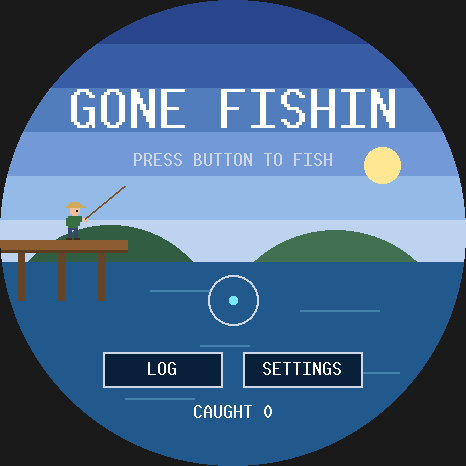
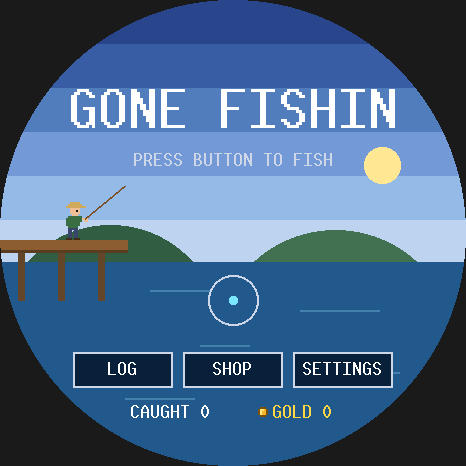
docs: handbook, README and CLAUDE.md cover gold, the hat shop, save v3, MENU and Angler's new 79 KB heap headroom; screenshots regenerated (shop and hatted dock added)

diff --git a/docs/ESP32_PLATFORM.md b/docs/ESP32_PLATFORM.md
@@ -3,7 +3,8 @@
 Everything learned bringing `no_std` Bevy games to this board, written so a
 fresh session can keep going without re-deriving it. There are two games:
 **Orbit** (circular pong, touch) and **Angler** (fishing: tilt-aimed cast,
-hold-to-charge, lean-to-reel, persistent fish log; see section 10.4). Facts are marked
+hold-to-charge, lean-to-reel, persistent fish log, gold and a hat shop; see section 10.4).
+Facts are marked
 **[verified]** (built, tested, read in source, or run in the emulator) or
 **[unverified]** (from vendor sources or inference; not yet seen on hardware).
 
@@ -302,10 +303,11 @@ Measured **[verified]** with `tools/heap32/run.sh`:
 | Game | After build | During play | Peak | Headroom in 284 KB (with the 7 KB band) |
 |---|---|---|---|---|
 | Orbit | 197 KB | 206 KB | 265 KB | **11 KB** |
-| Angler | 185 KB | 189 KB | 189 KB | **87 KB** |
+| Angler | 194 KB | 197 KB | 198 KB | **79 KB** |
 
-Angler is 76 KB leaner at peak because it uses **one phase-machine resource and four systems
-instead of Bevy states**. `StatesPlugin`, the `StateTransition` schedule, and every
+Angler is 67 KB leaner at peak because it uses **one phase-machine resource and four systems
+instead of Bevy states**. The hat shop (one `Inventory` resource, a `Phase::Shop`, no new
+systems) cost it 3 KB. `StatesPlugin`, the `StateTransition` schedule, and every
 `OnEnter`/`OnExit` schedule cost KB each.
 
 Opt-in plugins matter too. Moving buttons and IMU into `ControlsPlugin` saved Orbit 12 KB.
@@ -379,8 +381,9 @@ Other memory facts:
     scripted input. The two `.stack` sizes are printed; keep them within about 1 KB.
   - **Pass criteria:**
     - Orbit: two or more starts, one or more losses, and 0 B in PSRAM.
-    - Angler: two fish landed by a scripted steady-hand player, the fish log written through
-      `esp-storage` into emulated flash at 0x9000 and read back equal, and 0 B in PSRAM.
+    - Angler: two fish landed by a scripted steady-hand player, their gold spent in the hat
+      shop (MENU from aiming, then SHOP and BUY), the log, settings and inventory written
+      through `esp-storage` into emulated flash at 0x9000 and read back equal, and 0 B in PSRAM.
   - **Scripting rule:** emulated frames are much shorter than real ones (about 170 fps of game
     time), so drive scripts by **game time**, never frame counts. That covers charge-until-power,
     waiting out the result guard, and bounding fights by seconds.
@@ -419,8 +422,8 @@ For Angler (`cargo run --release --bin angler`), also check:
    the `PWR key unavailable` log (TCA9554 at 0x20).
 8. **Reel:** leaning forward pushes the green zone up. Swap the sign in `imu_to_screen`'s y/z
    if it's inverted.
-9. **Saves:** catch a fish, power-cycle, and the title's "CAUGHT n" should persist. The boot
-   log prints `save storage: found a save`.
+9. **Saves:** catch a fish, power-cycle, and the title's "CAUGHT n" and "GOLD n" (and the
+   angler's hat) should persist. The boot log prints `save storage: found a save`.
 
 Then run these experiments, in this order:
 - **PSRAM atomics:** allocate an `AtomicU32` (and an `Arc`) in PSRAM via `ExternalMemory`, run
@@ -558,9 +561,11 @@ codec.init(22_050, &mut amp)?;   // after I2S so MCLK is already running; raises
 ### 10.4 Angler, the fishing game (built)
 
 **Flow:** `crates/angler_game/src/session.rs` holds one `Phase` enum resource:
-Title → Log | Aim → Flight → Waiting → Bite → Reel → Caught | Escaped, plus Notice messages
-("ON THE DOCK!", "NOTHING BITES", "REELED IN", "LET GO!"). `Update` handles input-driven steps;
-flight and reel physics run in `FixedUpdate` at 60 Hz.
+Title → Log | Shop | Settings | Aim → Flight → Waiting → Bite → Reel → Caught | Escaped, plus
+Notice messages ("ON THE DOCK!", "NOTHING BITES", "REELED IN", "LET GO!"). Every result
+returns to Aim; the MENU button on the aiming screen (shown until the charge starts) is the
+only way back to the title without a reboot. `Update` handles input-driven steps; flight and
+reel physics run in `FixedUpdate` at 60 Hz.
 
 **Cast** (`cast.rs`, Angry Birds-style side view):
 - **Aim:** `elevation = clamp(40 - steer, 10, 80)`. Counterclockwise raises the rod. While
@@ -624,8 +629,27 @@ flight and reel physics run in `FixedUpdate` at 60 Hz.
 **Tuning knobs:** all constants are at the top of `cast.rs`, `reel.rs` and `species.rs`. The
 tests check behaviour, not values, so retune freely and rerun `cargo test -p angler_game`.
 
+**Gold and hats** (`shop.rs`):
+- **Earning:** every landed fish pays `Species::gold` (minnow 2, bluegill 3, perch 5, trout 8,
+  bass 12, catfish 15, pike 30, golden koi 80), scaled up to double for a fish at the top of
+  its length range (`Catch::gold`). The catch screen shows "+n GOLD"; the title shows the
+  purse. A typical cast (accuracy 0.7, distance 0.6) averages about 11 gold.
+- **Hats:** `HATS`, cheapest first: STRAW HAT (free, always owned), BEANIE 15, BALL CAP 30,
+  BUCKET HAT 50, COWBOY HAT 90, TOP HAT 150, FISH HAT 250, CROWN 500. A test pins the pacing:
+  the first hat within 3 typical catches, the crown 40 or more, the whole shelf within 150
+  (about 100 today).
+- **Art:** hats are text sprites in `sprites.rs` on the angler's 14-column grid (face in
+  columns 4-8). `ANGLER` is bareheaded with a hair row on top, and `draw::angler` draws the
+  hat with its bottom row over that hair row. Moving the body's top-left down by the two
+  removed rows kept `HANDS`, and so the rod and every cast, at the same pixel.
+- **Shop screen:** < > browse with the angler in a "mirror" trying the hat on. BUY (which also
+  puts it on) and WEAR share one spot, so one tap does whichever applies; a hat you can't
+  afford shows "NEED n MORE" instead. BUY and WEAR save, browsing doesn't. PWR or BACK leaves.
+- **`Inventory`:** gold (u32, saturating), owned hats as a u32 bitmask (a const assert caps
+  the shelf at 32), and the worn hat, which is always an owned one.
+
 **Home screen and settings:**
-- **Title buttons:** LOG and SETTINGS are on-screen touch buttons (`ui.rs` holds the
+- **Title buttons:** LOG, SHOP and SETTINGS are on-screen touch buttons (`ui.rs` holds the
   rectangles shared by drawing and hit tests). Taps elsewhere on the title do nothing;
   PWR still starts fishing.
 - **Difficulty:** `settings.rs`, EASY / NORMAL / HARD, stepped with the < > buttons. Each
@@ -640,8 +664,12 @@ tests check behaviour, not values, so retune freely and rerun `cargo test -p ang
   - Fish speed is a time-warp: spring × s², top speed and dart rate × s, retarget pauses ÷ s.
   - NORMAL is the tuning the reel tests pin.
   - A test checks that the same hesitant player lands more on EASY and fewer on HARD.
-- **Save format** (`save.rs`): `FLOG` version 2 = the fish log plus a difficulty byte. Version-1
-  saves still load, at NORMAL. Every difficulty change saves.
+- **Save format** (`save.rs`): `FLOG` version 3 = the fish log, a difficulty byte, gold (u32),
+  the owned-hat bitmask (u32) and the worn hat (u8). Version-1 saves load at NORMAL, and
+  version-1 and -2 saves load with no gold and the straw hat. Owned bits for hats a build
+  lacks are dropped, and a worn hat that isn't owned falls back to the straw hat. Every
+  difficulty change, catch, purchase and hat change saves (never during a fight: a sector
+  erase stalls the frame loop for tens of ms).
 
 **GUTEN easter egg** (a riff on the user's logic-fish toy):
 - Lives in the settings menu.

diff --git a/README.md b/README.md
@@ -9,9 +9,14 @@
     top of the sweeping meter to land exactly on it; release early and you come up short.
   - **Fight:** lean the device forward and back to keep the fish inside the catch zone, as in
     Stardew Valley.
-  - **Keep:** every catch is shown with its length and weight and saved to flash.
+  - **Keep:** every catch is shown with its length and weight and saved to flash, and pays
+    gold by species and size.
+  - **Shop:** spend the gold on hats for the angler (beanie, ball cap, cowboy hat, top hat,
+    a fish, a crown...). Try them on in the shop's mirror; the one you wear shows on the dock.
+    Gold and hats are saved.
   - **Re-level:** BOOT re-zeroes the IMU at any time.
-  - **Menus:** the title has LOG and SETTINGS touch buttons. Settings has EASY / NORMAL / HARD
+  - **Menus:** the title has LOG, SHOP and SETTINGS touch buttons, and MENU on the aiming
+    screen goes back to it. Settings has EASY / NORMAL / HARD
     difficulty (saved) and **GUTEN**, a riff on logic-fish: a rainbow trout spins to "Guten
     Morgen, Sonnenschein" for 15 s through the board's speaker.
 - **Orbit**, circular pong: drag anywhere to swing the paddle around the rim.
@@ -20,7 +25,7 @@ The same Bevy apps run in a desktop simulator and on the board, and both draw
 through the same software renderer, so the simulator shows the exact pixels the
 panel will get.
 
-![Angler aiming](screenshots/angler_aim.png) ![Angler fight](screenshots/angler_reel.png) ![Angler catch](screenshots/angler_caught.png)
+![Angler aiming](screenshots/angler_aim.png) ![Angler fight](screenshots/angler_reel.png) ![Angler catch](screenshots/angler_caught.png) ![Angler hat shop](screenshots/angler_shop.png)
 
 ```
 crates/orbit_gfx     no_std rasterizer (embedded-graphics + pixel-art sprites), dirty rects, bands
@@ -120,7 +125,7 @@ GPIO40). The 1.75C variant uses GPIO1 and GPIO2 for those two resets.
 
 Bevy's own bookkeeping (schedules, per-resource tables) dominates. Measured
 with a counting allocator on a 32-bit target, peak heap is 265 KB for Orbit and
-189 KB for Angler. Angler is leaner because it uses one phase resource instead
+198 KB for Angler. Angler is leaner because it uses one phase resource instead
 of Bevy states.
 The firmware gives Bevy about 284 KB of internal SRAM (`INTERNAL_HEAP_BYTES` plus
 the 72 KB reclaimed region) and keeps about 74 KB of stack. PSRAM is
@@ -136,7 +141,8 @@ buffers (sprites, framebuffers) in PSRAM explicitly with `esp_alloc::ExternalMem
   systems or resources.
 - `tools/qemu-smoke/run.sh` boots each game's firmware runtime in Espressif's QEMU
   with scripted input and prints `SMOKE PASS`/`SMOKE FAIL`. The Angler run lands
-  two fish and round-trips the fish log through emulated flash.
+  two fish, spends the gold in the hat shop, and round-trips the log, settings and
+  inventory through emulated flash.
 
 The full platform handbook is `docs/ESP32_PLATFORM.md`.
 

diff --git a/CLAUDE.md b/CLAUDE.md
@@ -2,7 +2,8 @@
 
 no_std Bevy 0.19 games for the Waveshare ESP32-S3-Touch-AMOLED-1.75 (466x466 round
 AMOLED, touch, IMU, two buttons): **Orbit** (circular pong) and **Angler** (fishing:
-tilt-aimed hold-to-charge cast, lean-to-reel Stardew-style fight, persistent fish log).
+tilt-aimed hold-to-charge cast, lean-to-reel Stardew-style fight, persistent fish log,
+catches earn gold for a hat shop).
 A desktop simulator shares the renderer and the motion/save code.
 
 **Read `docs/ESP32_PLATFORM.md` before changing anything.** It has the hardware
@@ -26,7 +27,7 @@ Rules that bite:
   the flow with a phase enum resource rather than Bevy states (states cost device heap), and
   add a `firmware/src/bin/<game>.rs` plus a `tools/qemu-smoke/src/bin/<game>.rs`.
 - The heap budget is tight: Bevy must fit in about 284 KB of internal SRAM, because
-  PSRAM atomics are unreliable on the S3. Peak headroom is Orbit 11 KB and Angler 87 KB.
+  PSRAM atomics are unreliable on the S3. Peak headroom is Orbit 11 KB and Angler 79 KB.
   After adding plugins, systems, resources or states, run `tools/heap32/run.sh`.
   `tools/qemu-smoke/run.sh` checks the full firmware runtime of both games in QEMU.
 - Shapes are diffed with `PartialEq` every frame and must report tight `bounds()`.
